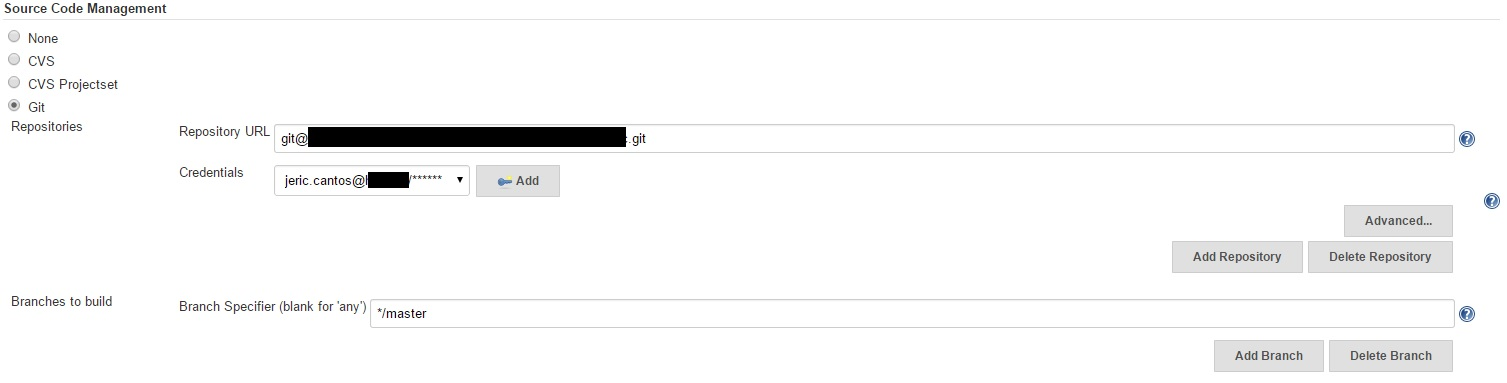
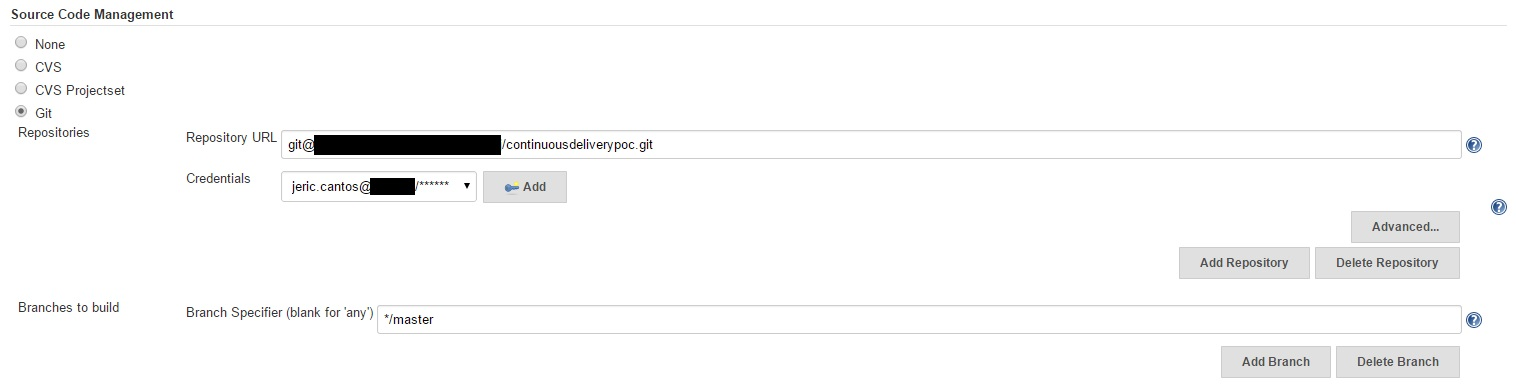
WIP

diff --git a/2015-04-14_VS-GitLab-Jenkins-Continuous-Integration-Setup.md b/2015-04-14_VS-GitLab-Jenkins-Continuous-Integration-Setup.md
@@ -1,4 +1,4 @@
-Jenkins is currently being used by open source teams in my organization as their Continuous Integration solution. Coming from a Microsoft-centric team, we rely more on MSBuild/TFS Build Server and Visual Studio Release Management to do this for us. I wondered, though, if we could use Jenkins for MS projects instead, which would allow our organization to maybe focus on just one tool and cater to a wide range of projects. My goal was to build a pipeline from Visual Studio going into GitLab for source control and then moving into Jenkins for continuous integration, scheduled builds, and all that jazz. Here's my adventure.
+Jenkins is currently being used by open source teams in my organization as their Continuous Integration solution. Coming from a Microsoft-centric team, we rely more on MSBuild/TFS Build Server and Visual Studio Release Management to do this for us. I wondered, though, if we could use Jenkins for MS projects instead, which would allow our organization to maybe focus on just one tool and cater to a wide range of projects. My goal was to build a pipeline from Visual Studio going into GitLab for source control and then moving into Jenkins installed on Windows Server 2012 for continuous integration, scheduled builds, and all that jazz. Here's my adventure. [TL;DR](#tldr)
 
 #Installing Jenkins
 
@@ -37,11 +37,11 @@ Hitting "Build" rewarded me with the following output.
 Started by user anonymous
 Building in workspace C:\Jenkins\jobs\ContinuousDeliveryPOC\workspace
 Cloning the remote Git repository
-Cloning repository git@absadsivir03.phl.hp.com:cantosj/continuousdeliverypoc.git
+Cloning repository git@XXXXXXX.XXXX.XXXXX:XXXX/continuousdeliverypoc.git
  > C:\Program Files (x86)\Git\cmd\git.exe init C:\Jenkins\jobs\ContinuousDeliveryPOC\workspace # timeout=10
-Fetching upstream changes from git@absadsivir03.phl.hp.com:cantosj/continuousdeliverypoc.git
+Fetching upstream changes from git@XXXXXXX.XXXX.XXXXX:XXXX/continuousdeliverypoc.git
  > C:\Program Files (x86)\Git\cmd\git.exe --version # timeout=10
- > C:\Program Files (x86)\Git\cmd\git.exe -c core.askpass=true fetch --tags --progress git@absadsivir03.phl.hp.com:cantosj/continuousdeliverypoc.git +refs/heads/*:refs/remotes/origin/*
+ > C:\Program Files (x86)\Git\cmd\git.exe -c core.askpass=true fetch --tags --progress git@XXXXXXX.XXXX.XXXXX:XXXX/continuousdeliverypoc.git +refs/heads/*:refs/remotes/origin/*
 ERROR: Timeout after 10 minutes
 ERROR: Error cloning remote repo 'origin'
 ERROR: Error cloning remote repo 'origin'
@@ -49,3 +49,196 @@ Finished: FAILURE
 ```
 
 Very nice. This problem stumped me for quite a while and Google wasn't quite as helpful. I tried extending the timeout, to changing my machine's proxy. I was able to ping the GitLab server and I was able to fetch, pull, and push changes via GitExtensions but nothing I did allowed Jenkins to do the same.
+
+#Seeing the Light
+
+##Jenkins Behind Proxy
+Around this time I completely removed Jenkins and did a reinstall, thinking I may have messed something up when managing the plugins. Around this time, I also got in touch with Jason Saba who had prior experience with Jenkins, but not specifically with Git. He pointed me in the direction of this [article](https://wiki.jenkins-ci.org/display/JENKINS/JenkinsBehindProxy) regarding Jenkins behind a proxy. The article talks about how to set the Jenkins proxy through setting some Java system properties, which was a problem for me because I did not actually install Java on my development machine, and it wasn't available (_read: I was too lazy to set it up_) in my PATH variable. Luckily, it seems I wasn't the only one requesting for the proxy to be maintainable through the Jenkins UI. It can be found in Jenkins -> Manage Jenkins -> Manage Plugins -> Advanced.
+
+![Proxy Config](https://github.com/JericCantos/TIL/blob/master/Images/Jenkins-CI/proxyconfig.jpg)
+**Be sure to hit the "Check now" button at the bottom of this page.**
+
+This worked like a charm, and switching to the "Available" tab I was able to search for and install all the necessary plugins I did during my first installation. Unfortunately, though, my builds still met with the exact same error message. At least I know it's no longer just a proxy issue.
+
+##Jenkins SSH
+My search led me to investigate SSH. If Jenkins wasn't using my machine's proxy by default, then maybe it wasn't using the SSH Key I setup to validate my machine with GitLab. True enough, it seems that Jenkins runs as a different user in Windows (System by default), and so is not able to make use of the key tagged against the currently logged-on user account. There were many guides that detailed how to get around this, like creating a Jenkins user, generating an SSH key for it, and the like, but for the purposes of my POC I didn't want the hassle of maintaining another user account. There must be a quicker way to do this. 
+
+My persistence in laziness paid off and I was able to find the directory that Jenkins will use to locate its SSH keys. Here's how I set things up:
+
+1. Go to C:\Windows\SysWOW64\config\systemprofile
+2. Create a .ssh directory
+3. Open the .ssh directory for the local user account where your previously generated key resides (e.g. C:\Users\Username\.ssh)
+4. Copy the contents of C:\Users\Username\.ssh into C:\Windows\SysWOW64\config\systemprofile\.ssh
+
+![SSH Directory](https://github.com/JericCantos/TIL/blob/master/Images/Jenkins-CI/sshdirectory.jpg)
+
+I immediately asked Jenkins to build my project and eagerly awaited the outputs.
+
+```
+Started by user anonymous
+Building in workspace C:\Jenkins\jobs\ContinuousDeliveryPOC\workspace
+ > C:\Program Files (x86)\Git\cmd\git.exe rev-parse --is-inside-work-tree # timeout=10
+Fetching changes from the remote Git repository
+ > C:\Program Files (x86)\Git\cmd\git.exe config remote.origin.url git@XXXXXXX.XXXX.XXXXX:XXXX/continuousdeliverypoc.git # timeout=10
+Fetching upstream changes from git@XXXXXXX.XXXX.XXXXX:XXXX/continuousdeliverypoc.git
+ > C:\Program Files (x86)\Git\cmd\git.exe --version # timeout=10
+ > C:\Program Files (x86)\Git\cmd\git.exe -c core.askpass=true fetch --tags --progress git@XXXXXXX.XXXX.XXXXX:XXXX/continuousdeliverypoc.git +refs/heads/*:refs/remotes/origin/* # timeout=20
+ > C:\Program Files (x86)\Git\cmd\git.exe rev-parse "refs/remotes/origin/master^{commit}" # timeout=10
+ > C:\Program Files (x86)\Git\cmd\git.exe rev-parse "refs/remotes/origin/origin/master^{commit}" # timeout=10
+Checking out Revision 098d8e8b560ad5bf6a602b4e2bc577b41a52927f (refs/remotes/origin/master)
+ > C:\Program Files (x86)\Git\cmd\git.exe config core.sparsecheckout # timeout=10
+ > C:\Program Files (x86)\Git\cmd\git.exe checkout -f 098d8e8b560ad5bf6a602b4e2bc577b41a52927f
+First time build. Skipping changelog.
+Path To MSBuild.exe: C:\Windows\Microsoft.NET\Framework\v4.0.30319\MSBuild.exe
+Executing the command cmd.exe /C " C:\Windows\Microsoft.NET\Framework\v4.0.30319\MSBuild.exe CDServices.sln " && exit %%ERRORLEVEL%% from C:\Jenkins\jobs\ContinuousDeliveryPOC\workspace
+[workspace] $ cmd.exe /C " C:\Windows\Microsoft.NET\Framework\v4.0.30319\MSBuild.exe CDServices.sln " && exit %%ERRORLEVEL%%
+Microsoft (R) Build Engine version 4.0.30319.33440
+[Microsoft .NET Framework, version 4.0.30319.33440]
+Copyright (C) Microsoft Corporation. All rights reserved.
+...
+```
+
+Progress! No timeout error, and the files were actually downloaded into my Jenkins workspace.
+
+```
+...
+Building the projects in this solution one at a time. To enable parallel build, please add the "/m" switch.
+Build started 4/10/2015 10:56:45 AM.
+Project "C:\Jenkins\jobs\ContinuousDeliveryPOC\workspace\CDServices.sln" on node 1 (default targets).
+ValidateSolutionConfiguration:
+  Building solution configuration "Debug|Any CPU".
+Project "C:\Jenkins\jobs\ContinuousDeliveryPOC\workspace\CDServices.sln" (1) is building "C:\Jenkins\jobs\ContinuousDeliveryPOC\workspace\CDServices\CDServices.csproj" (2) on node 1 (default targets).
+C:\Jenkins\jobs\ContinuousDeliveryPOC\workspace\CDServices\CDServices.csproj(259,3): error MSB4019: The imported project "C:\Program Files (x86)\MSBuild\Microsoft\VisualStudio\v11.0\WebApplications\Microsoft.WebApplication.targets" was not found. Confirm that the path in the <Import> declaration is correct, and that the file exists on disk.
+Done Building Project "C:\Jenkins\jobs\ContinuousDeliveryPOC\workspace\CDServices\CDServices.csproj" (default targets) -- FAILED.
+Done Building Project "C:\Jenkins\jobs\ContinuousDeliveryPOC\workspace\CDServices.sln" (default targets) -- FAILED.
+
+Build FAILED.
+
+"C:\Jenkins\jobs\ContinuousDeliveryPOC\workspace\CDServices.sln" (default target) (1) ->
+"C:\Jenkins\jobs\ContinuousDeliveryPOC\workspace\CDServices\CDServices.csproj" (default target) (2) ->
+  C:\Jenkins\jobs\ContinuousDeliveryPOC\workspace\CDServices\CDServices.csproj(259,3): error MSB4019: The imported project "C:\Program Files (x86)\MSBuild\Microsoft\VisualStudio\v11.0\WebApplications\Microsoft.WebApplication.targets" was not found. Confirm that the path in the <Import> declaration is correct, and that the file exists on disk.
+
+    0 Warning(s)
+    1 Error(s)
+
+Time Elapsed 00:00:01.57
+Build step 'Build a Visual Studio project or solution using MSBuild' marked build as failure
+Finished: FAILURE
+```
+
+Welp. Not as much progress as I had hoped. 
+
+##Reconfiguring MSBuild
+
+My trip down the rabbit hole that is Google led me to this [article](http://stackoverflow.com/questions/20472177/msb4019-from-vs2012-solution-when-building-on-jenkins) from Stack Overflow. It essentially just states that you should add 
+```
+/p:VisualStudioVersion=12.0
+```
+as a command line argument to your MSBuild build step.
+
+![MSBuild Reconfig](https://github.com/JericCantos/TIL/blob/master/Images/Jenkins-CI/msbuildreconfig.jpg)
+
+Progress once more, but not yet success. I was met with about five pages of these:
+
+```
+          Considered "bin\Microsoft.Owin.Host.SystemWeb.exe", but it didn't exist.
+  Primary reference "Microsoft.Owin.Security".
+C:\Windows\Microsoft.NET\Framework\v4.0.30319\Microsoft.Common.targets(1605,5): warning MSB3245: Could not resolve this reference. Could not locate the assembly "Microsoft.Owin.Security". Check to make sure the assembly exists on disk. If this reference is required by your code, you may get compilation errors. [C:\Jenkins\jobs\ContinuousDeliveryPOC\workspace\CDServices\CDServices.csproj]
+          For SearchPath "{HintPathFromItem}".
+          Considered "..\packages\Microsoft.Owin.Security.2.0.0\lib\net45\Microsoft.Owin.Security.dll", but it didn't exist.
+          For SearchPath "{TargetFrameworkDirectory}".
+          Considered "C:\Program Files (x86)\Reference Assemblies\Microsoft\Framework\.NETFramework\v4.5\Microsoft.Owin.Security.winmd", but it didn't exist.
+          Considered "C:\Program Files (x86)\Reference Assemblies\Microsoft\Framework\.NETFramework\v4.5\Microsoft.Owin.Security.dll", but it didn't exist.
+          Considered "C:\Program Files (x86)\Reference Assemblies\Microsoft\Framework\.NETFramework\v4.5\Microsoft.Owin.Security.exe", but it didn't exist.
+          Considered "C:\Program Files (x86)\Reference Assemblies\Microsoft\Framework\.NETFramework\v4.5\Facades\Microsoft.Owin.Security.winmd", but it didn't exist.
+          Considered "C:\Program Files (x86)\Reference Assemblies\Microsoft\Framework\.NETFramework\v4.5\Facades\Microsoft.Owin.Security.dll", but it didn't exist.
+          Considered "C:\Program Files (x86)\Reference Assemblies\Microsoft\Framework\.NETFramework\v4.5\Facades\Microsoft.Owin.Security.exe", but it didn't exist.
+          For SearchPath "{Registry:Software\Microsoft\.NETFramework,v4.5,AssemblyFoldersEx}".
+          Considered AssemblyFoldersEx locations.
+          For SearchPath "{AssemblyFolders}".
+          Considered "C:\Program Files (x86)\Microsoft SQL Server\110\SDK\Assemblies\Microsoft.Owin.Security.winmd", but it didn't exist.
+          Considered "C:\Program Files (x86)\Microsoft SQL Server\110\SDK\Assemblies\Microsoft.Owin.Security.dll", but it didn't exist.
+          Considered "C:\Program Files (x86)\Microsoft SQL Server\110\SDK\Assemblies\Microsoft.Owin.Security.exe", but it didn't exist.
+          Considered "C:\Program Files\IIS\Microsoft Web Deploy V3\Microsoft.Owin.Security.winmd", but it didn't exist.
+          Considered "C:\Program Files\IIS\Microsoft Web Deploy V3\Microsoft.Owin.Security.dll", but it didn't exist.
+          Considered "C:\Program Files\IIS\Microsoft Web Deploy V3\Microsoft.Owin.Security.exe", but it didn't exist.
+          Considered "C:\Program Files (x86)\Microsoft SQL Server\110\SDK\Assemblies\Microsoft.Owin.Security.winmd", but it didn't exist.
+          Considered "C:\Program Files (x86)\Microsoft SQL Server\110\SDK\Assemblies\Microsoft.Owin.Security.dll", but it didn't exist.
+          Considered "C:\Program Files (x86)\Microsoft SQL Server\110\SDK\Assemblies\Microsoft.Owin.Security.exe", but it didn't exist.
+          Considered "C:\Program Files (x86)\Reference Assemblies\Microsoft\Framework\v3.5\Microsoft.Owin.Security.winmd", but it didn't exist.
+          Considered "C:\Program Files (x86)\Reference Assemblies\Microsoft\Framework\v3.5\Microsoft.Owin.Security.dll", but it didn't exist.
+          Considered "C:\Program Files (x86)\Reference Assemblies\Microsoft\Framework\v3.5\Microsoft.Owin.Security.exe", but it didn't exist.
+          Considered "C:\Program Files (x86)\Reference Assemblies\Microsoft\Framework\v3.0\Microsoft.Owin.Security.winmd", but it didn't exist.
+          Considered "C:\Program Files (x86)\Reference Assemblies\Microsoft\Framework\v3.0\Microsoft.Owin.Security.dll", but it didn't exist.
+          Considered "C:\Program Files (x86)\Reference Assemblies\Microsoft\Framework\v3.0\Microsoft.Owin.Security.exe", but it didn't exist.
+          Considered "C:\Program Files (x86)\Microsoft.NET\ADOMD.NET\110\Microsoft.Owin.Security.winmd", but it didn't exist.
+          Considered "C:\Program Files (x86)\Microsoft.NET\ADOMD.NET\110\Microsoft.Owin.Security.dll", but it didn't exist.
+          Considered "C:\Program Files (x86)\Microsoft.NET\ADOMD.NET\110\Microsoft.Owin.Security.exe", but it didn't exist.
+          For SearchPath "{GAC}".
+          Considered "Microsoft.Owin.Security", which was not found in the GAC.
+          For SearchPath "{RawFileName}".
+          Considered treating "Microsoft.Owin.Security" as a file name, but it didn't exist.
+          For SearchPath "bin\".
+          Considered "bin\Microsoft.Owin.Security.winmd", but it didn't exist.
+          Considered "bin\Microsoft.Owin.Security.dll", but it didn't exist.
+          Considered "bin\Microsoft.Owin.Security.exe", but it didn't exist.
+...
+```
+
+##Locating Project References
+
+It seems Jenkins wasn't able to locate the reference DLLs used in the project. I've never had to deal with this before, as Visual Studio/NuGet which automagically handled these for the most part when I get a solution from source control. At my wit's end, I decided to include the "packages" directory into my Git project. This directory contains a copy of all the DLL files that the project references. The contents of this directory were all included in the default .gitignore file for Windows and .NET applications so they were excluded from the list of artefacts tracked by Git. I'm not really sure if this is the best and only approach, but it worked.
+
+```
+...
+Copying file from "C:\Jenkins\jobs\ContinuousDeliveryPOC\workspace\packages\Microsoft.Owin.Security.Cookies.2.0.0\lib\net45\Microsoft.Owin.Security.Cookies.xml" to "bin\Microsoft.Owin.Security.Cookies.xml".
+  Copying file from "C:\Jenkins\jobs\ContinuousDeliveryPOC\workspace\packages\Microsoft.Owin.Security.OAuth.2.0.0\lib\net45\Microsoft.Owin.Security.OAuth.xml" to "bin\Microsoft.Owin.Security.OAuth.xml".
+  Copying file from "C:\Jenkins\jobs\ContinuousDeliveryPOC\workspace\packages\Microsoft.Owin.Security.Google.2.0.0\lib\net45\Microsoft.Owin.Security.Google.xml" to "bin\Microsoft.Owin.Security.Google.xml".
+  Copying file from "C:\Jenkins\jobs\ContinuousDeliveryPOC\workspace\packages\Microsoft.Owin.Security.Twitter.2.0.0\lib\net45\Microsoft.Owin.Security.Twitter.xml" to "bin\Microsoft.Owin.Security.Twitter.xml".
+  Copying file from "C:\Jenkins\jobs\ContinuousDeliveryPOC\workspace\packages\Microsoft.Owin.Security.MicrosoftAccount.2.0.0\lib\net45\Microsoft.Owin.Security.MicrosoftAccount.xml" to "bin\Microsoft.Owin.Security.MicrosoftAccount.xml".
+  Copying file from "C:\Jenkins\jobs\ContinuousDeliveryPOC\workspace\packages\Microsoft.AspNet.WebApi.Owin.5.0.0\lib\net45\System.Web.Http.Owin.xml" to "bin\System.Web.Http.Owin.xml".
+_CopyAppConfigFile:
+  Copying file from "Web.config" to "bin\CDServices.dll.config".
+CopyFilesToOutputDirectory:
+  Copying file from "obj\Debug\CDServices.dll" to "bin\CDServices.dll".
+  CDServices -> C:\Jenkins\jobs\ContinuousDeliveryPOC\workspace\CDServices\bin\CDServices.dll
+  Copying file from "obj\Debug\CDServices.pdb" to "bin\CDServices.pdb".
+Done Building Project "C:\Jenkins\jobs\ContinuousDeliveryPOC\workspace\CDServices\CDServices.csproj" (default targets).
+Done Building Project "C:\Jenkins\jobs\ContinuousDeliveryPOC\workspace\CDServices.sln" (default targets).
+
+Build succeeded.
+    0 Warning(s)
+    0 Error(s)
+
+Time Elapsed 00:00:02.63
+Finished: SUCCESS
+```
+
+That's it, concept proven! Congratulations to us!
+
+#<a name="tldr"></a>TL;DR
+
+1. Install Visual Studio (not in scope of this article).
+2. Set up Git (not in scope of this article).
+3. Generate and SSH Key for your machine and link it to your GitLab account (not in scope of this article).
+4. Download and install [Jenkins](https://jenkins-ci.org/).
+5. Configure the Jenkins Proxy via Jenkins -> Manage Jenkins -> Manage Plugins -> Advanced. Make sure to hit "Check now" at the bottom of the page.
+6. Download and install the following plugins from Jenkins -> Manage Jenkins -> Manage Plugins -> Available
+  *MSBuild
+  *Git
+  *GitClient
+  *GitLab Hook
+7. Configure Git via Jenkins -> Manage Jenkins -> Configure System.
+![Git Config](https://github.com/JericCantos/TIL/blob/master/Images/Jenkins-CI/gitconfig.jpg)
+8. Configure MSBuild via Jenkins -> Manage Jenkins -> Configure System.
+![MSBuild Config](https://github.com/JericCantos/TIL/blob/master/Images/Jenkins-CI/msbuildconfig.jpg)
+9. Create a Jenkins Job.
+10. Configure Job details.
+![Project Details](https://github.com/JericCantos/TIL/blob/master/Images/Jenkins-CI/projectbasics.jpg)
+![Project Git Details](https://github.com/JericCantos/TIL/blob/master/Images/Jenkins-CI/projectgit.jpg)
+![Project Build Triggers](https://github.com/JericCantos/TIL/blob/master/Images/Jenkins-CI/projectbuildtriggers.jpg)
+![MSBuild Reconfig](https://github.com/JericCantos/TIL/blob/master/Images/Jenkins-CI/msbuildreconfig.jpg)
+11. Copy your generated ssh key (normally located in C:\Users\Username\.ssh) into C:\Windows\SysWOW64\config\systemprofile\.ssh.
+12. Ensure that the "packages" directory of your solution and all of its contents are explicitly added into your Git repository (override .gitignore by explicitly adding these files through git add).
+13. Run your build job.
+14. Profit.
